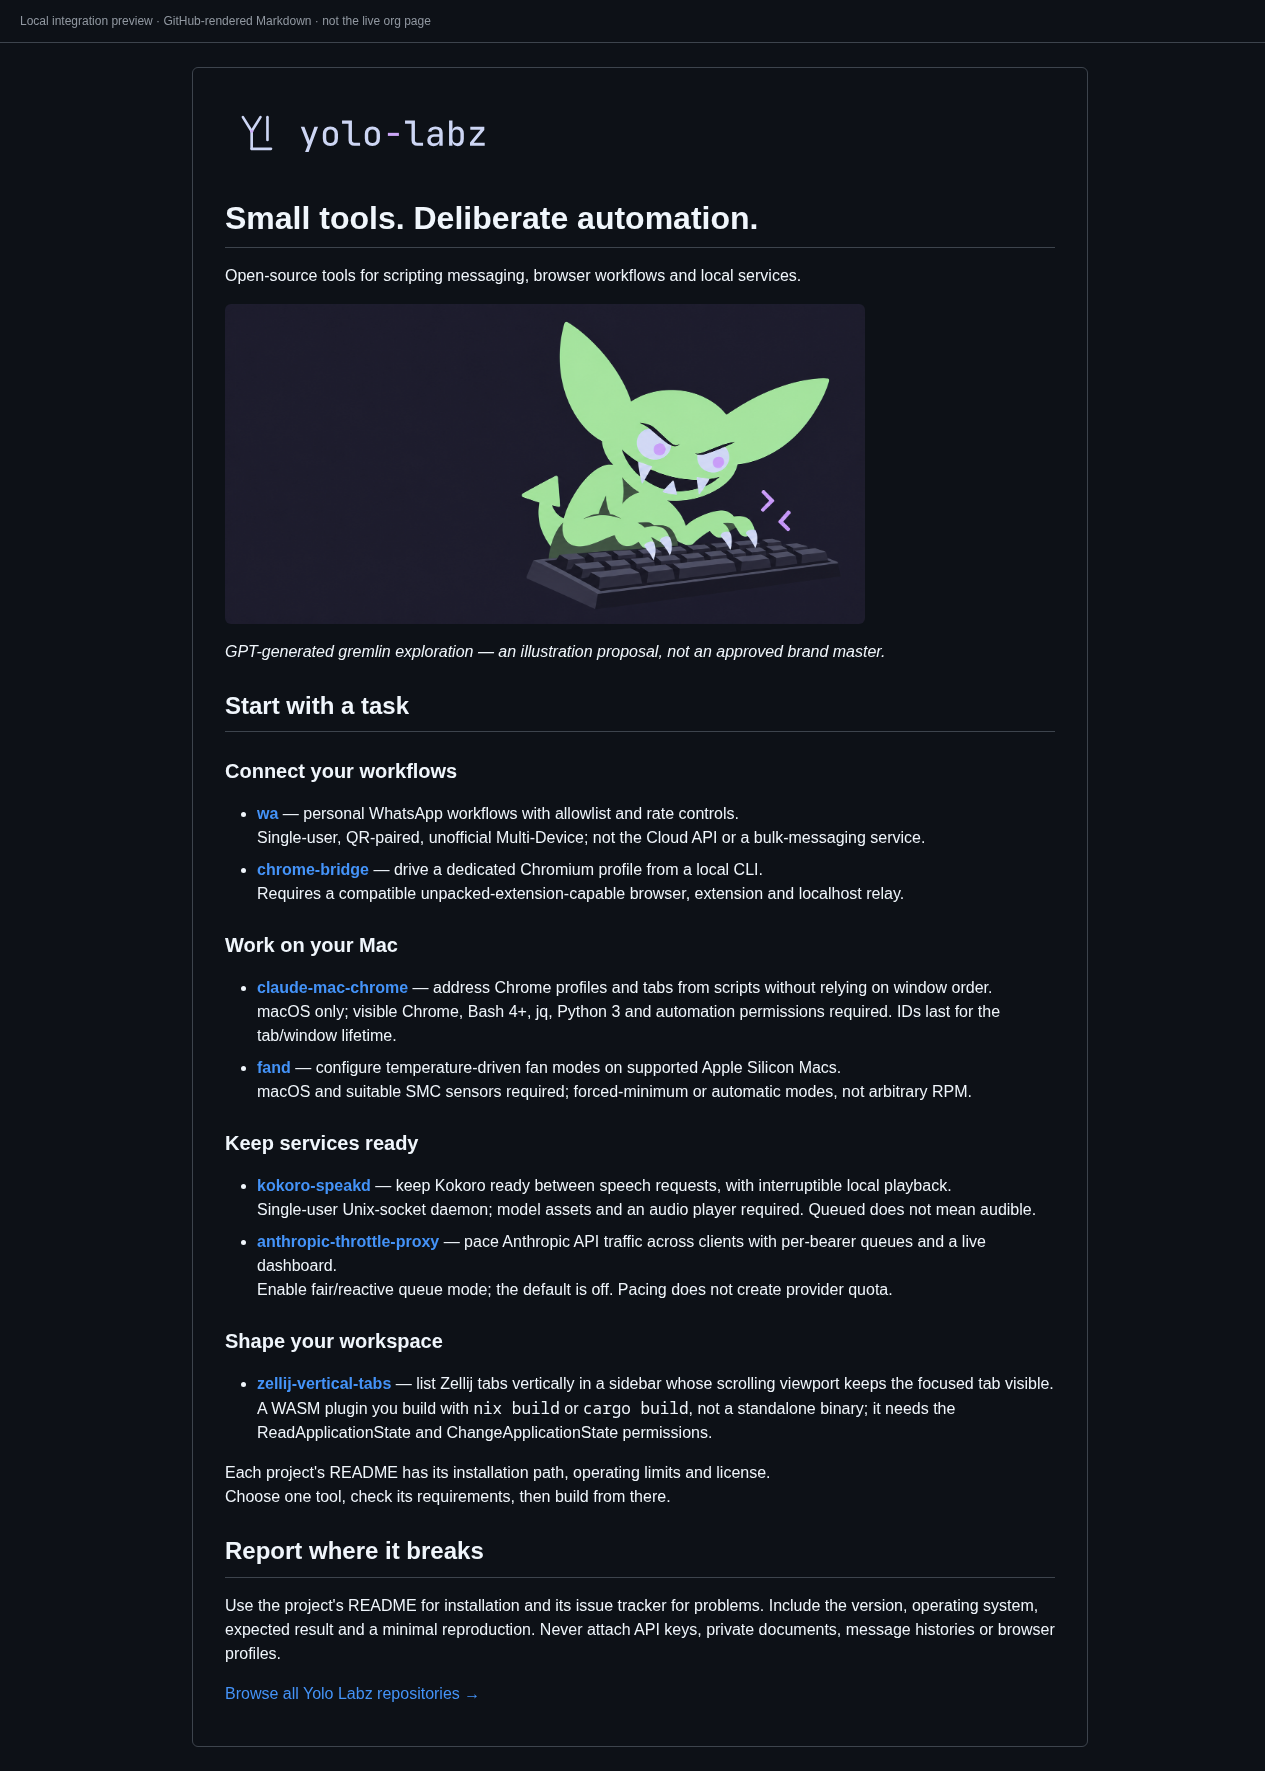
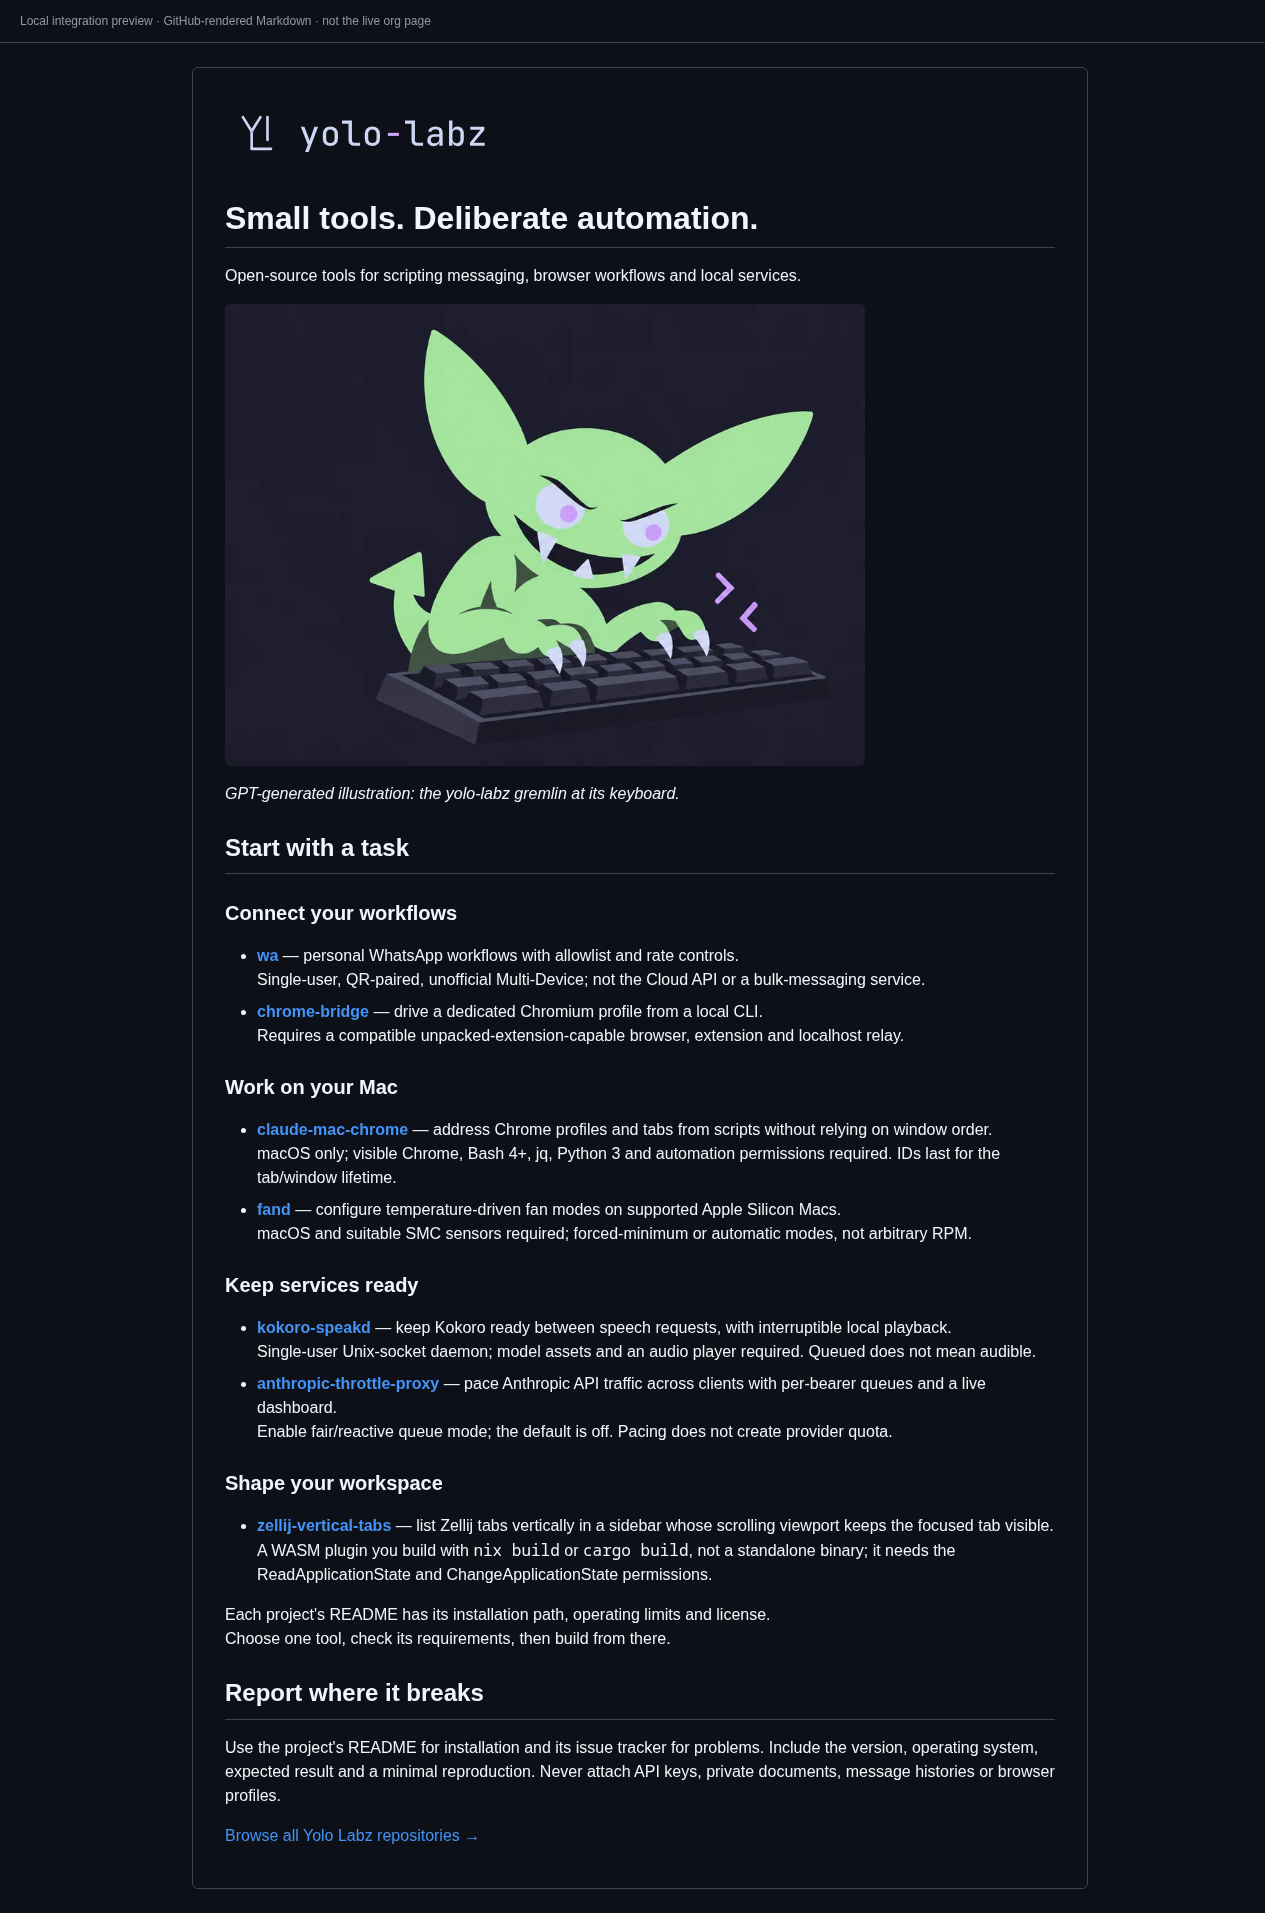
chore(rollout): re-render the evidence against the adopted WebP hero

Changed region(s): [[0.185, 0.0621, 0.8324, 0.9627], [0.0308, 0.0, 0.2466, 0.0311], [0.2775, 0.0, 0.3391, 0.0311]]

diff --git a/profile/assets/brand/rollout/preview.html b/profile/assets/brand/rollout/preview.html
@@ -2,7 +2,7 @@
 <html lang="en">
 <meta charset="utf-8">
 <meta name="viewport" content="width=device-width, initial-scale=1">
[2 lines of base64/hex data omitted]
 <base href="../../../../">
 <title>Yolo Labz — local README integration preview</title>
 <style>
@@ -37,8 +37,8 @@
 </picture></themed-picture>
 <h1 dir="auto">Small tools. Deliberate automation.</h1>
 <p dir="auto">Open-source tools for scripting messaging, browser workflows and local services.</p>
-<p dir="auto"><a target="_blank" rel="noopener noreferrer nofollow" href="profile/assets/brand/rollout/gremlin-wide-hero.png"><img src="profile/assets/brand/rollout/gremlin-wide-hero.png" alt="Green programming gremlin with pointed ears and a fanged grin typing on a keyboard, with mauve code accents" width="640" height="320" style="max-width: 100%; height: auto; max-height: 320px;; aspect-ratio: 640 / 320; background-color: var(--bgColor-muted); border-radius: 6px" class="js-gh-image-fallback"></a></p>
-<p dir="auto"><em>GPT-generated gremlin exploration — an illustration proposal, not an approved brand master.</em></p>
+<p dir="auto"><a target="_blank" rel="noopener noreferrer nofollow" href="profile/assets/brand/hero/gremlin-hero-gpt-887x640.webp"><img src="profile/assets/brand/hero/gremlin-hero-gpt-887x640.webp" alt="Green programming gremlin with pointed ears and a fanged grin typing on a keyboard, with mauve code accents" width="640" height="462" style="max-width: 100%; height: auto; max-height: 462px;; aspect-ratio: 640 / 462; background-color: var(--bgColor-muted); border-radius: 6px" class="js-gh-image-fallback"></a></p>
+<p dir="auto"><em>GPT-generated illustration: the yolo-labz gremlin at its keyboard.</em></p>
 <h2 dir="auto">Start with a task</h2>
 <h3 dir="auto">Connect your workflows</h3>
 <ul dir="auto">

diff --git a/profile/assets/brand/rollout/verify.py b/profile/assets/brand/rollout/verify.py
@@ -52,7 +52,7 @@ def verify():
         assert len(result["links"]) == expected_links
         assert all(img["loaded"] and img["alt"] for img in result["images"])
         assert result["images"][0]["source"] == f"logo-wordmark-{result['theme']}.svg"
-        assert any(img["source"] == "gremlin-wide-hero.png" for img in result["images"])
+        assert any(img["source"] == "gremlin-hero-gpt-887x640.webp" for img in result["images"])
         name = f"exploration-integrated-{result['viewport']}-{result['theme']}.png"
         assert result["screenshot"] == name
         png = (HERE / name).read_bytes()
